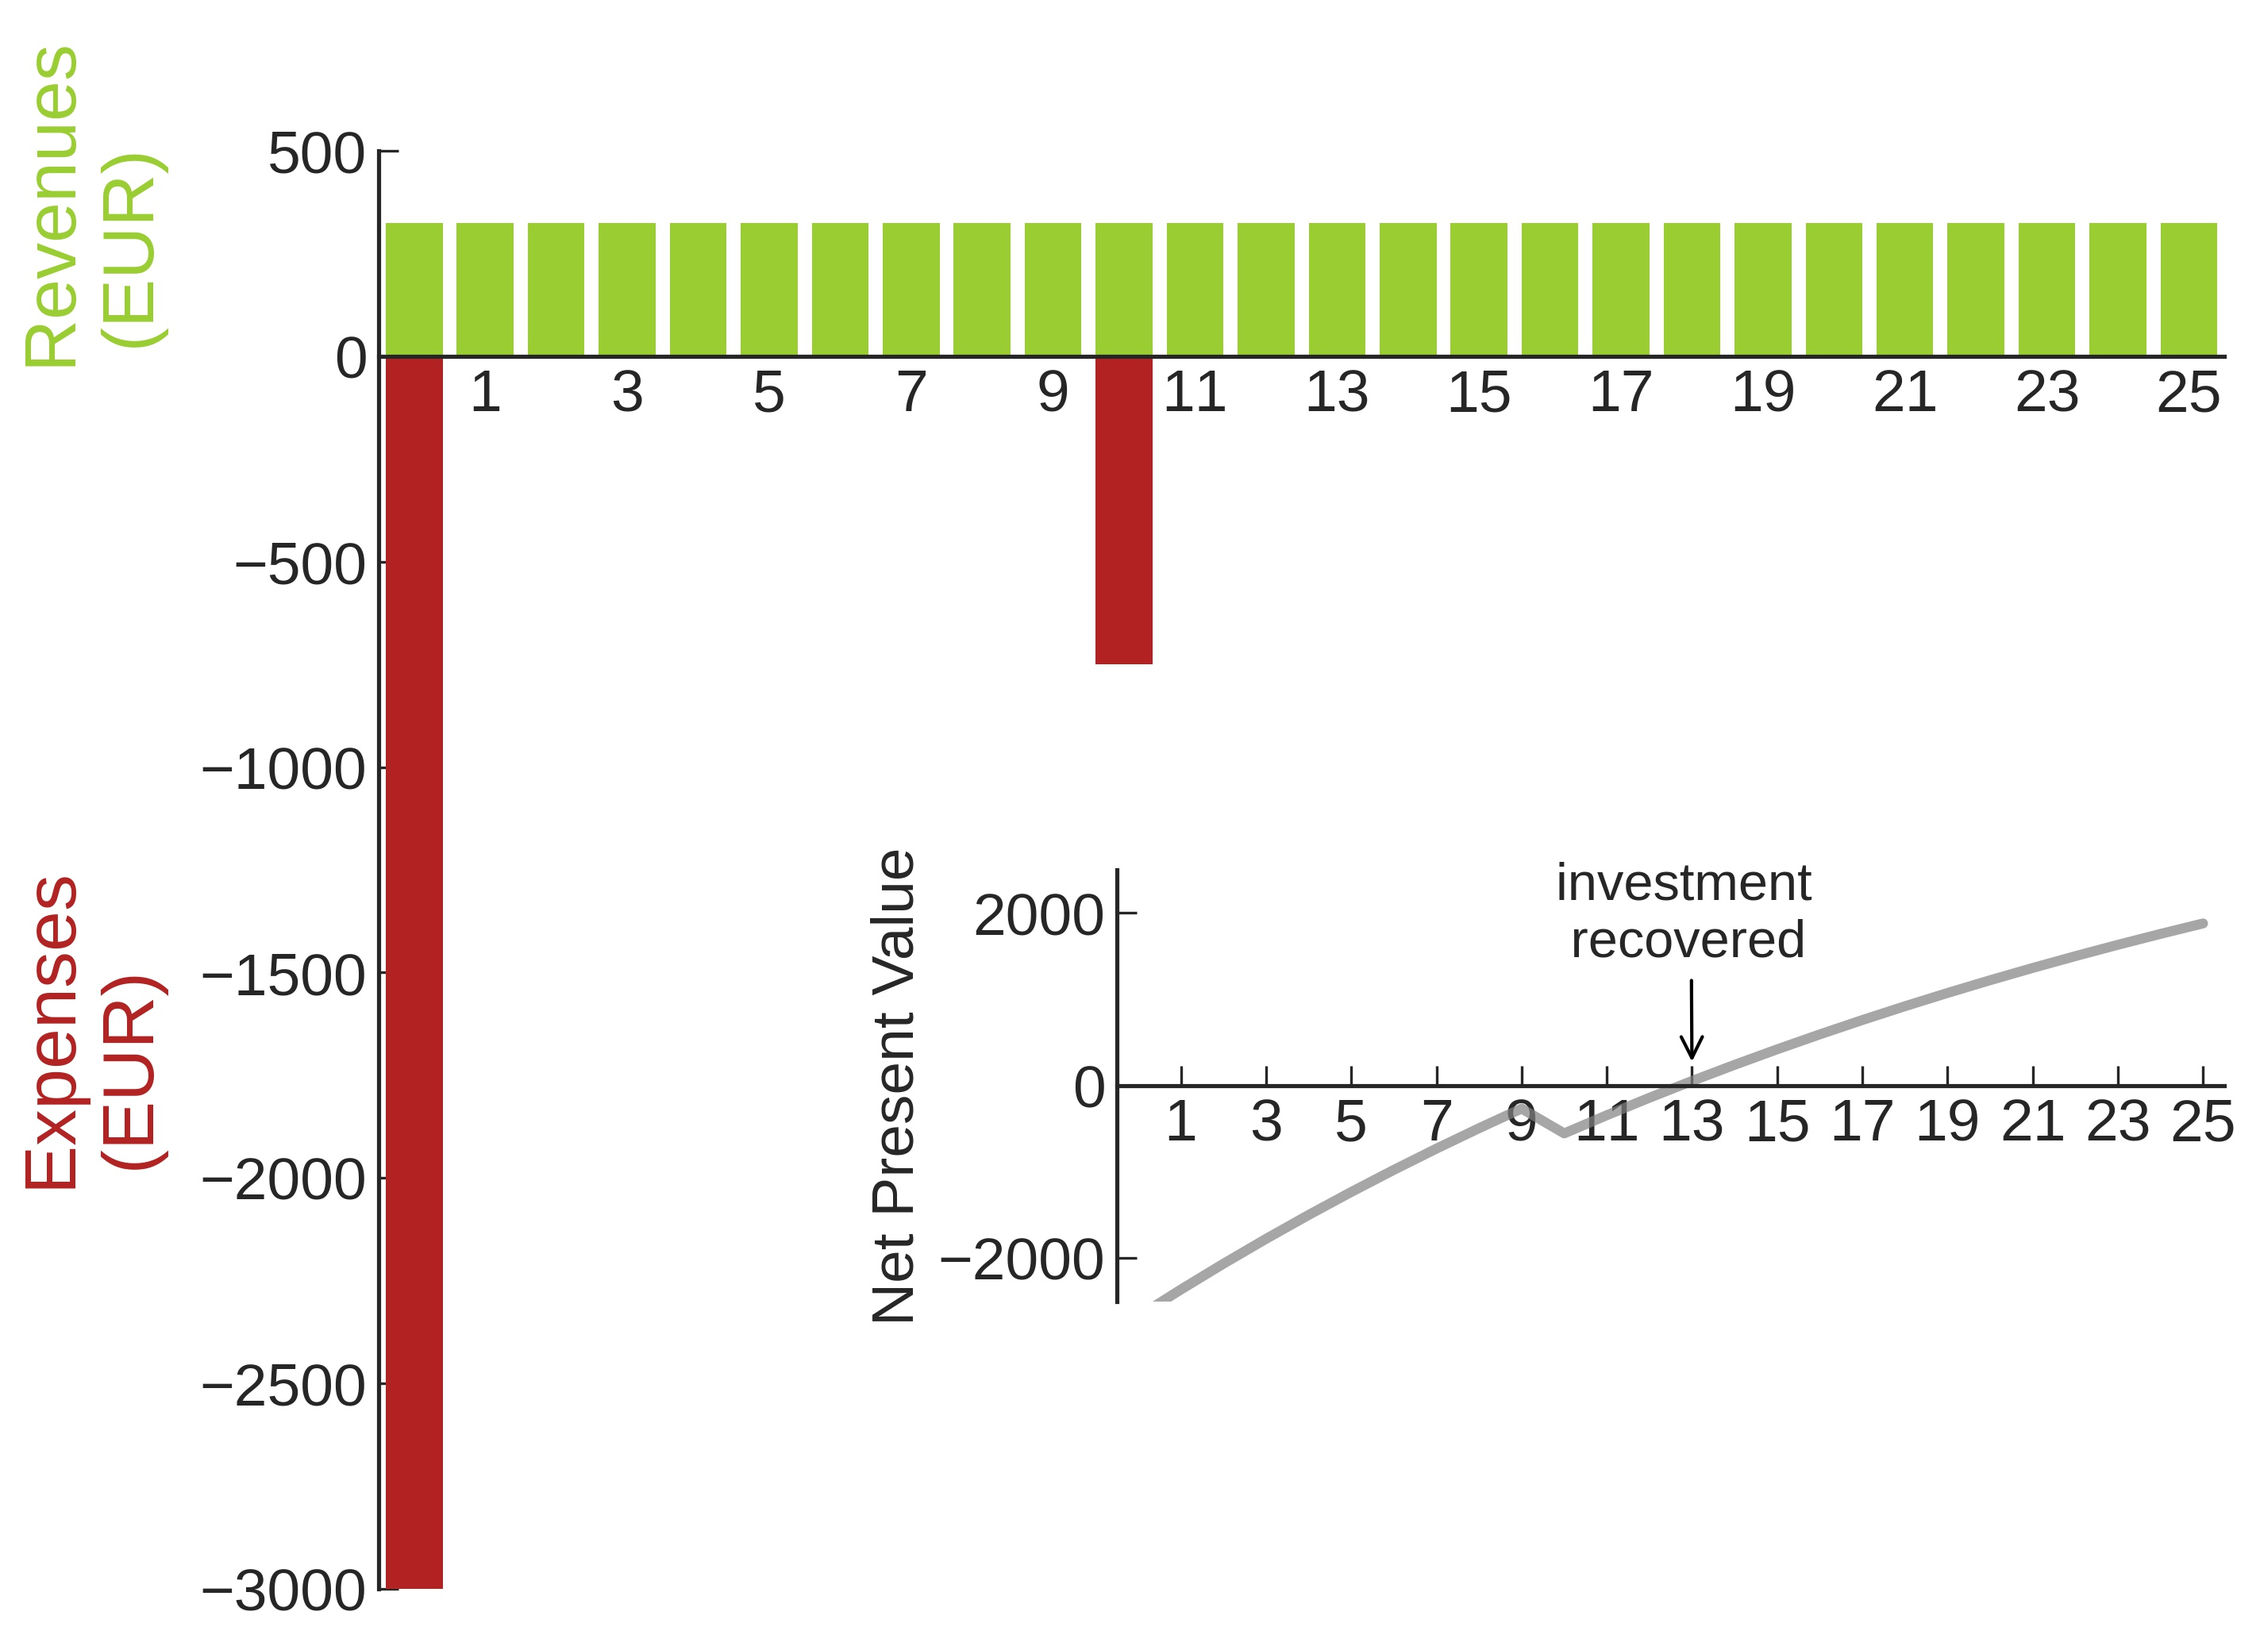
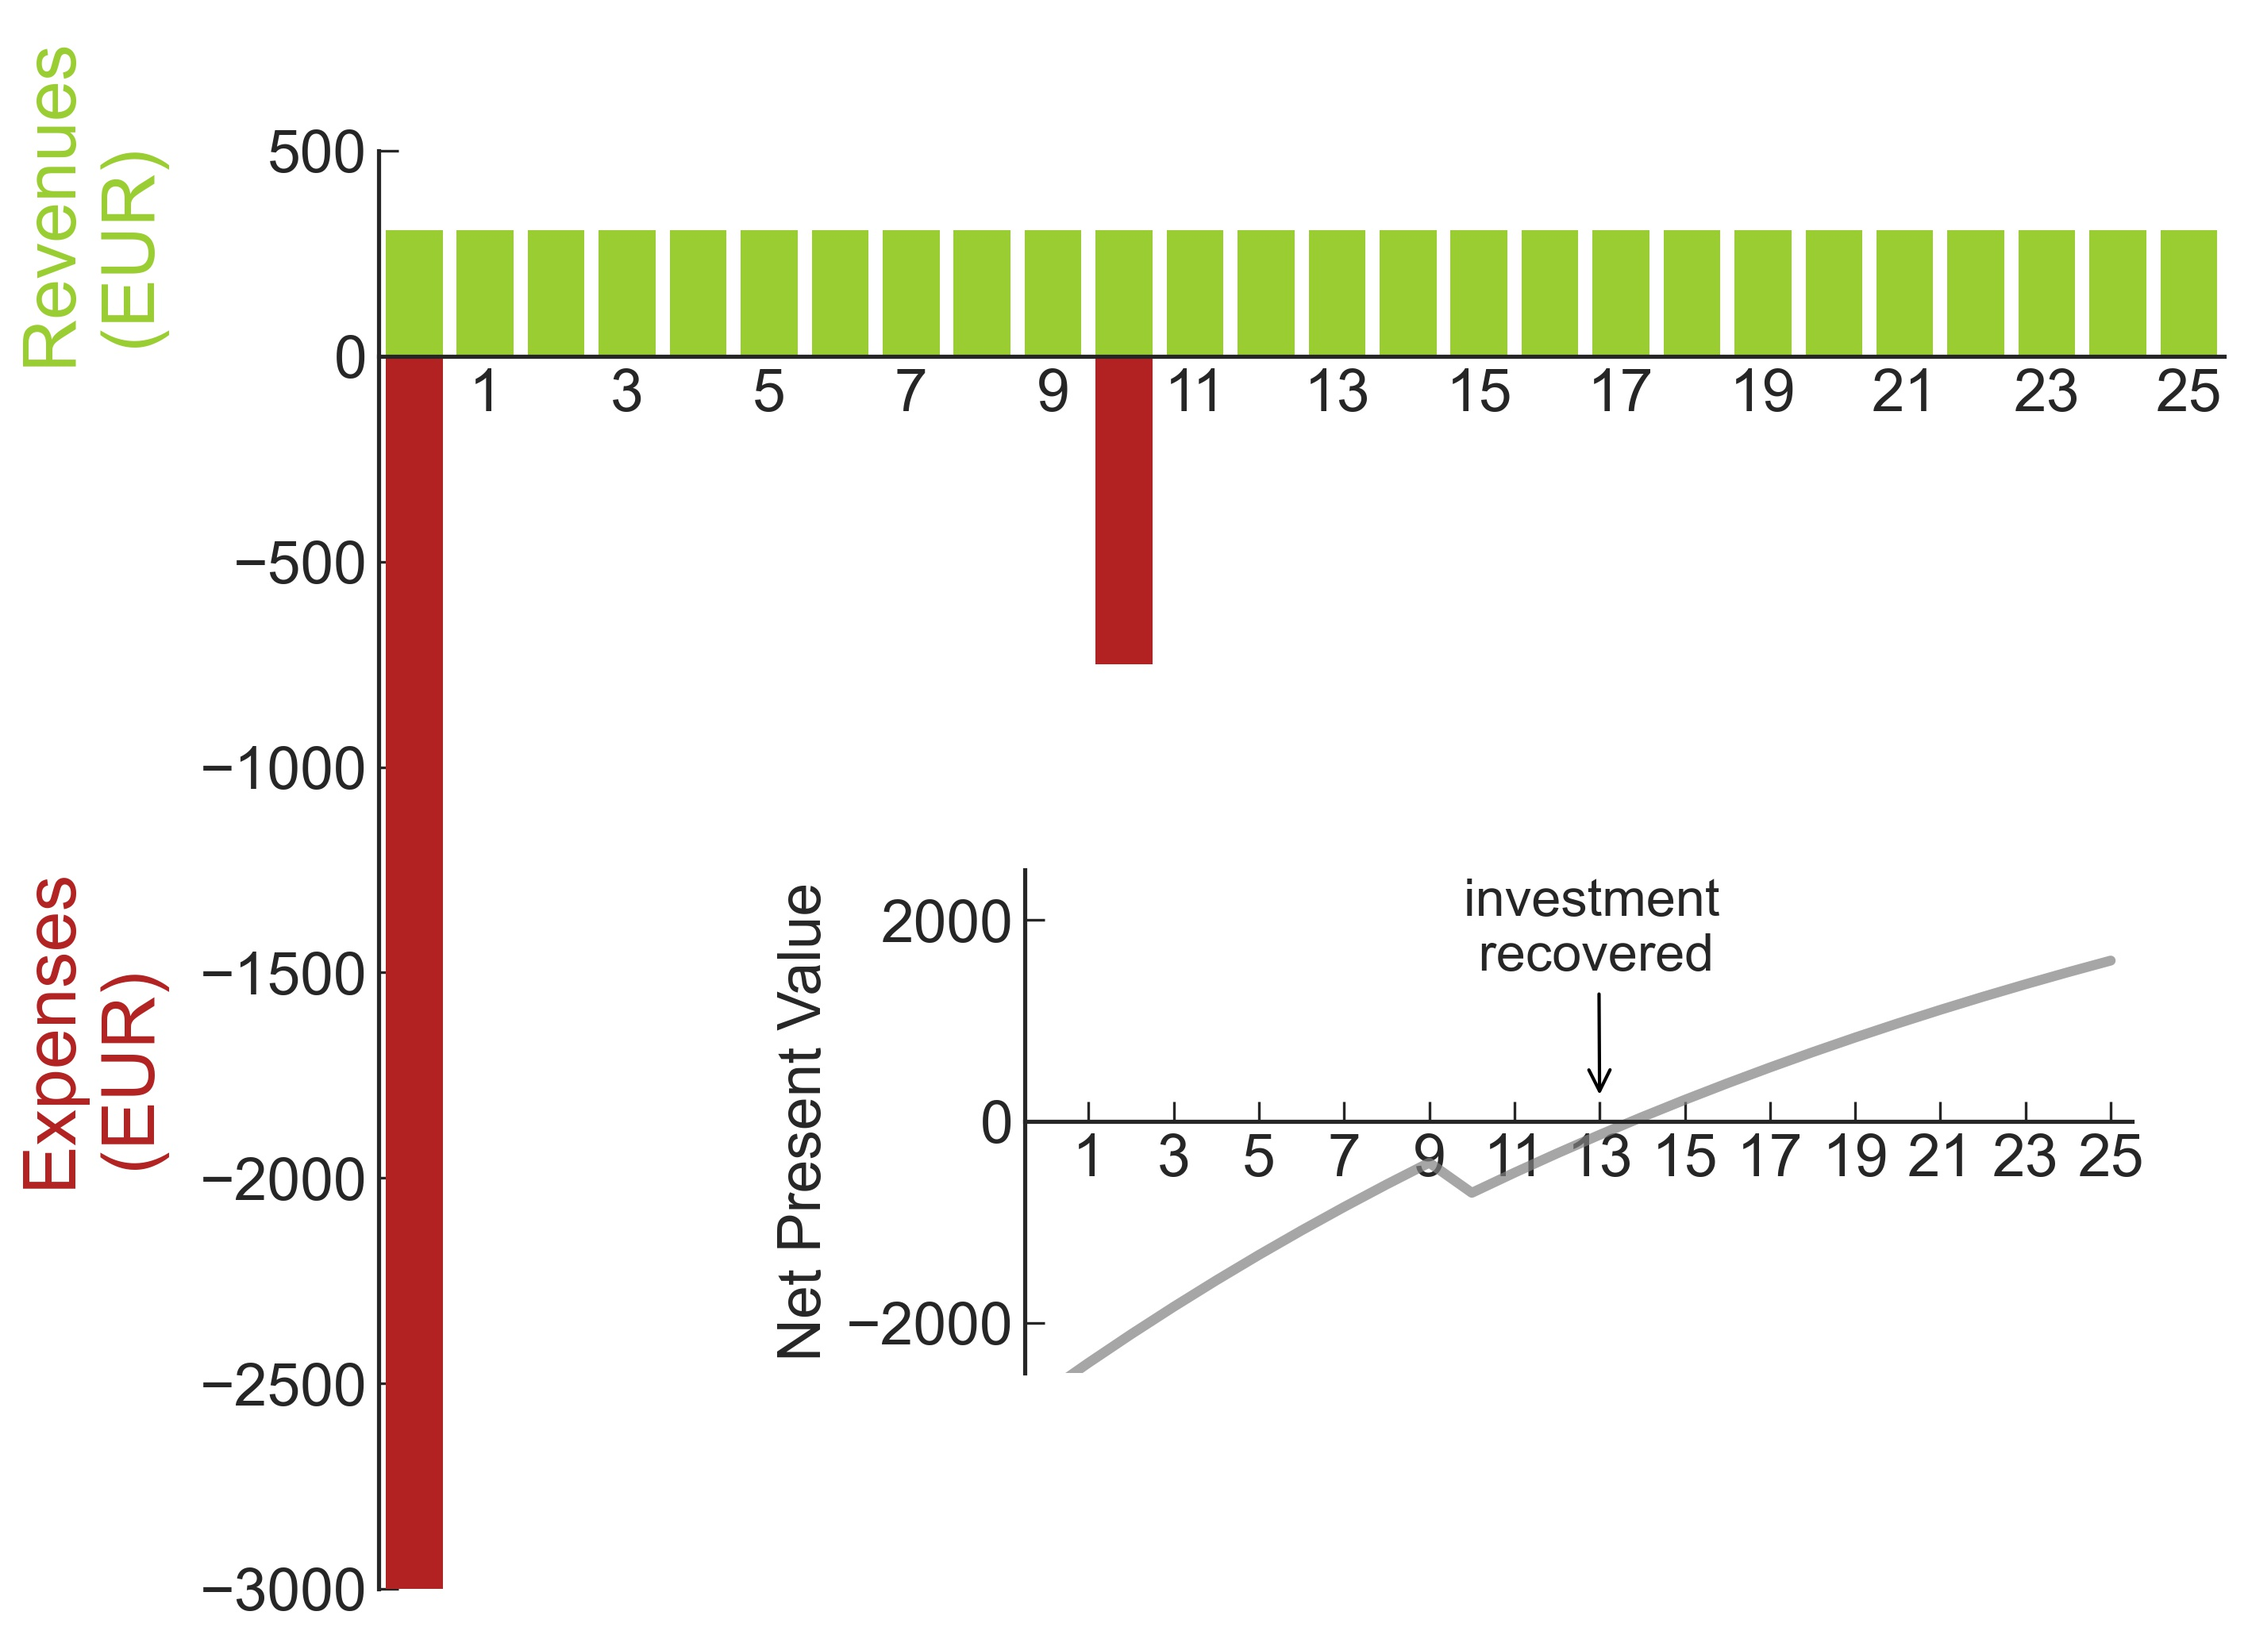
update economic evaluation figure

diff --git a/Figures/Chapter_13/economic_evaluation.py b/Figures/Chapter_13/economic_evaluation.py
@@ -20,15 +20,19 @@ capacity = 3 #kW
 investment_cost = 1000 #EUR/kW
 inverter_cost = 250 #EUR/kW
 discount_rate = 0.04 
-Annual_electricity_generation = 3240 #kWh/a
-electricity_price = 0.1 #EUR/kW
+annual_electricity_generation = 3*1300*0.9 #kWh/a
+self_consumption_ratio=0.35
+electricity_price = 0.25 #EUR/kWh
 data=pd.DataFrame(0, index= np.arange(0,lifetime+1), 
-                  columns=['Expenses', 'Revenues', 'Cash flow', 
-                           'Discounted cash flow', 'Cumulative discounted cash flow'])
+                  columns=['Expenses', 
+                           'Revenues', 
+                           'Cash flow', 
+                           'Discounted cash flow', 
+                           'Cumulative discounted cash flow'])
 
 data.loc[0, 'Expenses'] = capacity*investment_cost
 data.loc[10, 'Expenses'] = capacity*inverter_cost
-data.loc[:, 'Revenues'] = Annual_electricity_generation*electricity_price
+data.loc[:, 'Revenues'] = annual_electricity_generation*self_consumption_ratio*electricity_price
 data['Cash flow'] = data['Revenues'] - data['Expenses']
 
 for i in data.index:
@@ -55,7 +59,7 @@ ax1.annotate('Revenues \n (EUR)', [-5.5, 0], fontsize=22, color='yellowgreen', r
 ax1.set_ylim([-3000, 500])
 ax1.set_xlim([-0.5, 25.5])
 ax1.set_xticks(np.arange(1,lifetime+1,2))
-ax2 = ax1.inset_axes([0.4, 0.2, 0.6, 0.3])
+ax2 = ax1.inset_axes([0.35, 0.15, 0.6, 0.35])
 ax2.plot(data.index, data['Cumulative discounted cash flow'], color='gray', linewidth=3, alpha=0.7)
 ax2.set_xticks(np.arange(1,lifetime+1,2))
 ax2.set_ylabel('Net Present Value')
